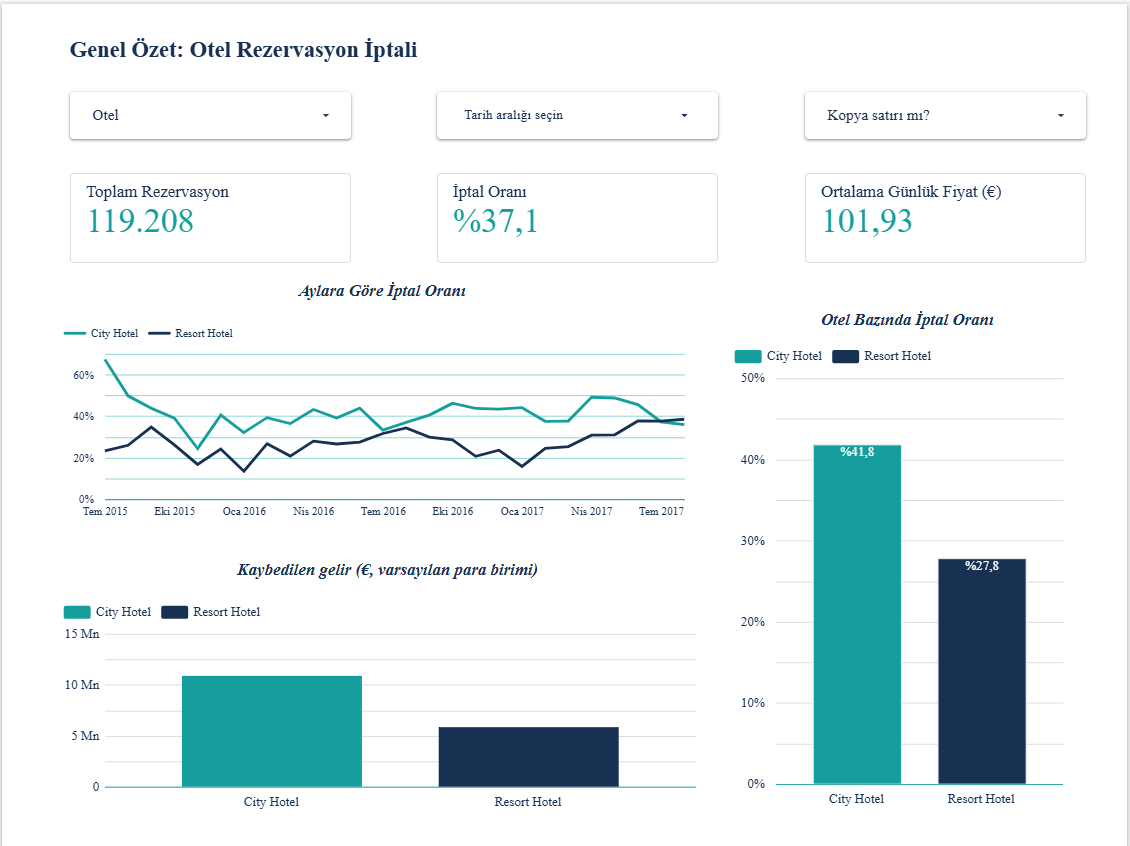
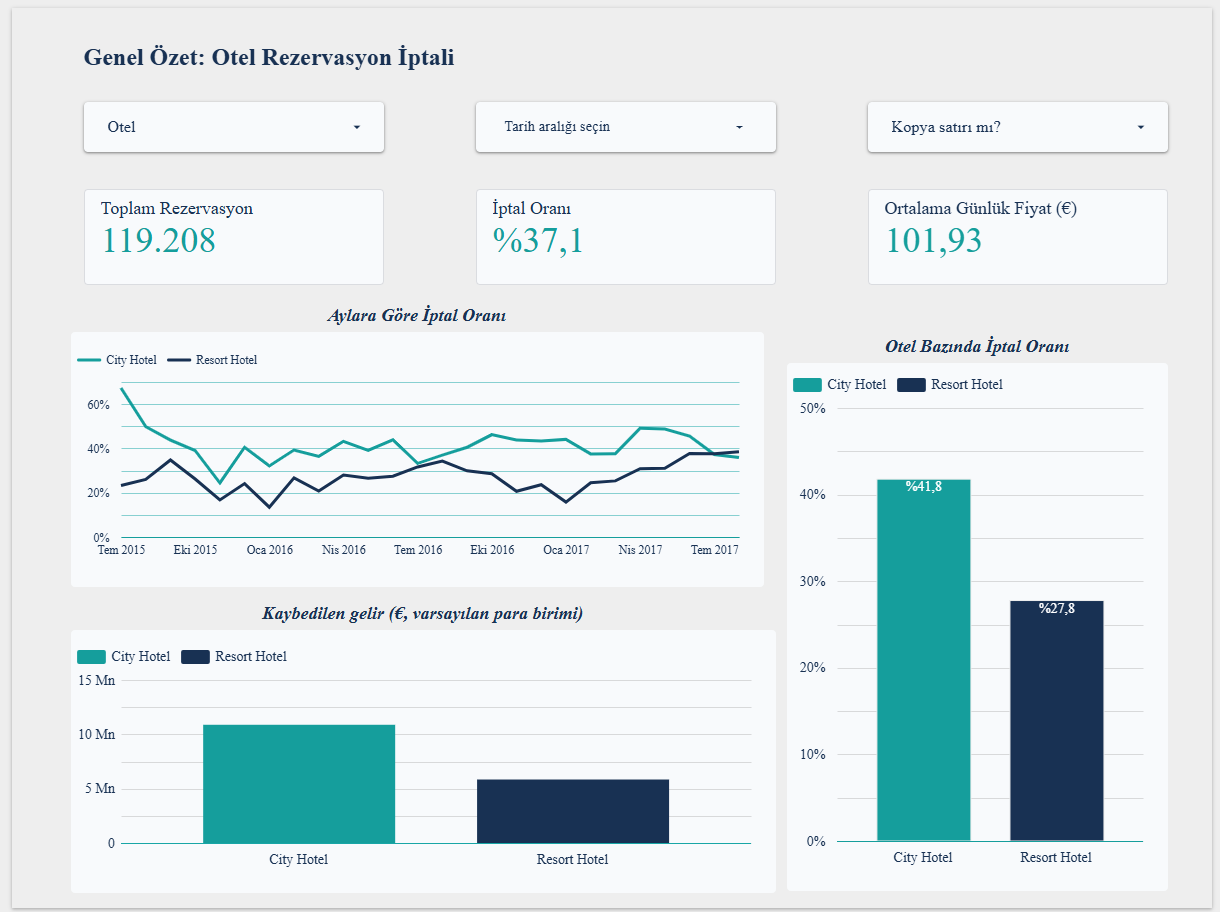
Dashboard ekran goruntuleri guncellendi, 4. sayfa (Rezervasyon Ozellikleri) README'ye eklendi

diff --git a/process/hotel_booking_cleaning/README.md b/process/hotel_booking_cleaning/README.md
@@ -98,13 +98,15 @@ dbt ile üretilen mart tabloları (`data/processed/marts/`) CSV olarak Looker St
 - `iptal_orani` = `SUM(canceled_bookings) / SUM(total_bookings)`, yüzde türünde. Hazır `cancel_rate` sütununun toplamı veya ortalaması kullanılmaz, çünkü oranların ortalaması yanlış sonuç verir.
 - `ay_baslangici`: aylık grafiklerde x ekseni olarak kullanılan tarih alanı.
 - Ortalama günlük fiyat, aylık ortalamaların rezervasyon sayısıyla ağırlıklandırılmasıyla hesaplanır: `SUM(avg_adr * total_bookings) / SUM(total_bookings)`. Sonuç dbt ile birebir aynıdır (101,93).
+- Rezervasyon Özellikleri sayfasında iptal oranı doğrudan `fct_bookings` tablosundan hesaplanır: `SUM(is_canceled) / COUNT(booking_id)`.
 
 ### Rapor yapısı
-Rapor üç sayfadan oluşur. Sayfalarda **hotel**, **tarih aralığı** ve **is_duplicate** filtreleri bulunur.
+Rapor dört sayfadan oluşur. Sayfalarda **hotel**, **tarih aralığı** ve **is_duplicate** filtreleri bulunur.
 
 1. **Genel Özet:** toplam rezervasyon (119.208), iptal oranı (%37,1) ve ortalama günlük fiyat (101,93 €) kartları; aylara göre iptal oranı çizgi grafiği; otel bazında iptal oranı ve kaybedilen gelir (€, varsayılan para birimi) çubuk grafikleri. Rakamlar dbt sorgularıyla doğrulanmıştır.
 2. **Hava Durumu:** varış günü sıcaklık bandına (15 °C altı, 15-20, 20-25, 25 °C ve üstü) ve yağışlı/kuru güne göre iptal oranı, otel bazında. Yağışlı ve kuru günler arasındaki fark küçüktür (City Hotel %42,0 ve %40,7; Resort Hotel %27,7 ve %28,2).
 3. **Havalimanı Gecikmesi:** gecikme kaydı olan ve olmayan günlerde otel bazında iptal oranı, havalimanı bazında uçuş başına ortalama varış gecikmesi (dakika) ve aylık ortalama günlük toplam gecikme (dakika). Faro (LPFR) verisi seyrek olduğu için yorumlarken dikkatli olunmalıdır.
+4. **Rezervasyon Özellikleri:** toplam rezervasyon, iptal oranı, kayıp gelir (16.721.837 €) ve ortalama rezervasyon süresi (104,1 gün) kartları; rezervasyonların son durumunu gösteren halka grafik (konakladı %62,9, iptal etti %36,1, gelmedi %1,0); pazar segmentine göre rezervasyon, iptal, iptal oranı (ısı haritası) ve kayıp gelir tablosu; rezervasyonun varıştan ne kadar önce yapıldığına göre rezervasyon sayısı (çubuk) ve iptal oranı (çizgi) kombine grafiği. İptal oranı 0-6 gün önceden yapılan rezervasyonlarda %9,4 iken 180 gün ve üstünde %56,8'e çıkar. Bu sayfadaki etiketler (rezervasyon durumu, pazar segmenti, süre aralıkları) Looker Studio'da hesaplanmış alanlarla Türkçeleştirilmiştir.
 
 **Sayfa 1: Genel Özet**
 
@@ -117,6 +119,10 @@ Rapor üç sayfadan oluşur. Sayfalarda **hotel**, **tarih aralığı** ve **is_
 **Sayfa 3: Havalimanı Gecikmesi**
 
 ![Havalimanı Gecikmesi](../../dashboard/sayfa3_havalimani_gecikmesi.png)
+
+**Sayfa 4: Rezervasyon Özellikleri**
+
+![Rezervasyon Özellikleri](../../dashboard/sayfa4_rezervasyon_ozellikleri.png)
 
 ### Paylaşım
 Rapor sahibi Elif'tir. Takım üyeleri düzenleyici, bağlantıyı bilen herkes görüntüleyici yetkisine sahiptir.
